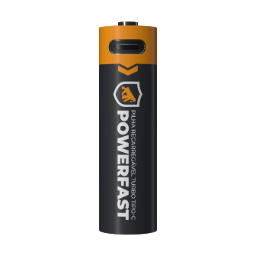
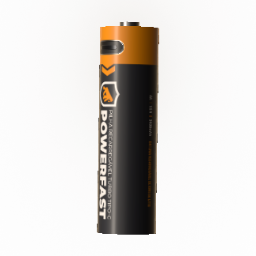
As miniaturas voltam a dizer o tamanho
O menu oferece tres opcoes e desenhava duas iguais. Medido nos PNGs antigos: mini-aa e mini-aaa ocupavam 83,6% da altura CADA, quando a palito e 12% mais curta e 28% mais fina de verdade. A unica propriedade que separa os dois produtos estava sendo apagada justamente no lugar onde a pessoa escolhe entre eles.

A causa era o recorte: recortar() calculava o lado do quadrado a partir da caixa de tinta DO PROPRIO ALVO, entao cada pilha era ajustada ao proprio quadrado e as duas saiam do mesmo tamanho. Agora os alvos declaram um grupo de escala e o lado sai do MAIOR do grupo, numa passada de medicao antes do recorte. O kit tem escala propria, por ser outra composicao.

Medido depois: mini-aa 64x214 (83,6% da altura), mini-aaa 44x186 (72,7%). Razao de altura 0,870 contra 0,881 reais, de largura 0,688 contra 0,724. A palito agora aparece menor, como ela e.

Dois consertos de tabela no mesmo arquivo. Os progressos estavam em 0,685 e 0,8125, de uma coreografia que mudou -- 0,685 hoje cai dentro do beat do chip; passaram para as ancoras reais, 0,712 e 0,888. E a leitura de pixel saiu do framebuffer padrao para um alvo de render: readPixels na tela so vale enquanto a aba compoe, e num painel embutido ela devolve o quadro anterior, o que ja tinha estragado uma rodada de captura.

Changed region(s): [[0.375, 0.0625, 0.625, 0.9375]]

diff --git a/producao/miniaturas/capturar.js b/producao/miniaturas/capturar.js
@@ -42,13 +42,33 @@
    * São os centros dos beats dos painéis, que é onde a pose é frontal e a
    * pilha está parada. Ver POSES em src/lib/scene-state.ts.
    */
+  /**
+   * `escala` AGRUPA quem tem de ser comparável.
+   *
+   * Todos os alvos de uma mesma escala são recortados com o MESMO lado de
+   * quadrado, calculado a partir do maior deles. Sem isso, cada pilha era
+   * ajustada à própria caixa de tinta e a AA e a palito saíam do mesmo
+   * tamanho na tela — medido nos PNGs antigos: as duas ocupavam 83,6% da
+   * altura, quando a palito é 12% mais curta e 28% mais fina de verdade.
+   *
+   * O menu existe para escolher ENTRE OS FORMATOS, e o enquadramento estava
+   * apagando a única propriedade que os separa. O kit é outra composição e
+   * tem escala própria.
+   *
+   * Os progressos são as ÂNCORAS de cada beat, e não os centros. Eles
+   * estavam em 0,685 e 0,8125, valores de uma coreografia que mudou: hoje
+   * 0,685 cai dentro do beat do chip, e as poses frontais dos painéis são
+   * 0,712 e 0,888 (ver `ancoraDoBeat` em src/lib/scene-state.ts). Capturar
+   * no lugar errado devolve a pilha girada, que foi um defeito já visto
+   * aqui.
+   */
   const ALVOS = [
-    { nome: 'mini-aa', progresso: 0.685, ilha: null },
-    { nome: 'mini-aaa', progresso: 0.8125, ilha: null },
+    { nome: 'mini-aa', progresso: 0.712, ilha: null, escala: 'formato' },
+    { nome: 'mini-aaa', progresso: 0.888, ilha: null, escala: 'formato' },
     /* No beat do kit há DUAS ilhas, uma de cada formato. A miniatura do
        kit leva a da esquerda, que é a de AA: o kit é quatro pilhas de UM
        formato, e mostrar as oito diria que ele traz os dois. */
-    { nome: 'mini-kit', progresso: 0.9375, ilha: 'esquerda' },
+    { nome: 'mini-kit', progresso: 0.95, ilha: 'esquerda', escala: 'kit' },
   ]
 
   /** Respiro em volta do recorte, em fração do lado maior */
@@ -56,18 +76,22 @@
   /** Lado do PNG final. 256 dá nitidez de sobra num alvo de 40 a 72 px */
   const LADO = 256
 
-  const esperar = (ms) => new Promise((r) => setTimeout(r, ms))
-
-  /** Lê o buffer do canvas, já com y na orientação da tela */
+  /**
+   * Lê o buffer, por um ALVO DE RENDER e não pelo canvas.
+   *
+   * `gl.render` seguido de `readPixels` no framebuffer padrão só devolve o
+   * que se acabou de desenhar enquanto a aba está compondo. Numa aba de
+   * fundo — ou num painel de navegador embutido, que é onde isto costuma
+   * rodar — o buffer de apresentação não é preservado entre tarefas e a
+   * leitura volta com o quadro anterior, ou metade dele. Foi assim que uma
+   * rodada inteira de captura saiu com a cena errada.
+   *
+   * `__cena.alvo()` desenha num alvo próprio e lê de lá, o que é válido
+   * sempre. A orientação continua de baixo para cima, como no readPixels.
+   */
   function lerPixels() {
-    const { gl, scene, camera } = window.__cena
-    gl.render(scene, camera)
-    const ctx = gl.getContext()
-    const L = ctx.drawingBufferWidth
-    const A = ctx.drawingBufferHeight
-    const px = new Uint8Array(L * A * 4)
-    ctx.readPixels(0, 0, L, A, ctx.RGBA, ctx.UNSIGNED_BYTE, px)
-    return { px, L, A }
+    const r = window.__cena.alvo()
+    return { px: r.px, L: r.w, A: r.h }
   }
 
   /** Alfa em (x, y), com y contado do topo */
@@ -132,12 +156,18 @@
     return { x0, x1, y0, y1 }
   }
 
-  /** Recorta a caixa num PNG quadrado, centrado, com margem */
-  function recortar(buf, cx) {
+  /**
+   * Recorta a caixa num PNG quadrado, centrado, com margem.
+   *
+   * `lado` vem DE FORA quando o alvo pertence a um grupo de escala: é o
+   * mesmo quadrado para a AA e para a palito, calculado a partir da maior
+   * das duas. É o que devolve a diferença de porte à imagem.
+   */
+  function recortar(buf, cx, ladoForcado) {
     const { px, L, A } = buf
     const larg = cx.x1 - cx.x0 + 1
     const alt = cx.y1 - cx.y0 + 1
-    const lado = Math.ceil(Math.max(larg, alt) * (1 + MARGEM * 2))
+    const lado = ladoForcado ?? Math.ceil(Math.max(larg, alt) * (1 + MARGEM * 2))
 
     const fonte = document.createElement('canvas')
     fonte.width = L
@@ -172,84 +202,83 @@
   }
 
   /**
-   * Espera a pose ASSENTAR, em tempo real, e não por contagem de quadros.
+   * Leva a cena a um progresso e ASSENTA a pose, sem depender de scroll.
    *
-   * A primeira versão escrevia o progresso na barra do painel de depuração
-   * e avançava 400 quadros à mão. Duas coisas davam errado ao mesmo tempo:
+   * A versão anterior rolava a página de verdade e esperava a rotação parar,
+   * e o comentário de `assentar` explica por que: escrever na barra do painel
+   * de depuração não bastava, porque o GSAP desfazia a escrita no primeiro
+   * tique dele.
    *
-   *   · o GSAP continua dirigindo `sceneState.progress` pelo scroll, então
-   *     ele desfazia a escrita da barra no primeiro tique dele
-   *   · `advance()` avança o laço do R3F, mas não o relógio do GSAP, então
-   *     o scrub nunca chegava ao valor pedido
+   * Só que rolar de verdade exige que a aba esteja COMPONDO — sem quadros, a
+   * pose nunca assenta e a captura sai no meio do giro. Num painel embutido
+   * isso é o caso normal, não a exceção.
    *
-   * O resultado saiu na imagem: a AA e a palito foram capturadas no meio do
-   * giro, mostrando a tarja de especificação em vez da marca. O kit escapou
-   * porque as oito pilhas dele têm rotação própria, independente da pose.
-   *
-   * Rolando de verdade e esperando a rotação parar, quem dirige é o mesmo
-   * mecanismo que dirige a página.
+   * Aqui a barra continua sendo a fonte do progresso, mas os quadros são
+   * forçados à mão com `__cena.passo()`. O GSAP não desfaz nada porque ele só
+   * escreve quando há evento de scroll, e não há: ninguém rola. É o mesmo
+   * mecanismo que o resto da depuração desta cena usa.
    */
-  async function assentar(g) {
-    let ant = null
-    for (let k = 0; k < 40; k++) {
-      await esperar(250)
-      const agora = { ry: g.rotation.y, z: g.position.z, s: g.scale.y }
-      if (
-        ant &&
-        Math.abs(agora.ry - ant.ry) < 0.004 &&
-        Math.abs(agora.z - ant.z) < 0.002 &&
-        Math.abs(agora.s - ant.s) < 0.002
-      ) {
-        return k
-      }
-      ant = agora
+  function pousar(progresso, quadros = 340) {
+    const barra = document.querySelector('input[type=range]')
+    if (!barra) throw new Error('painel de depuração não montou')
+    const escrever = Object.getOwnPropertyDescriptor(
+      HTMLInputElement.prototype,
+      'value',
+    ).set
+    escrever.call(barra, String(progresso))
+    barra.dispatchEvent(new Event('input', { bubbles: true }))
+
+    let t = performance.now() / 1000
+    for (let k = 0; k < quadros; k++) {
+      t += 1 / 60
+      window.__cena.passo(t)
     }
-    return 'estourou'
   }
 
   async function capturar() {
     if (!window.__cena) throw new Error('abra com ?debug=scene')
-    const espacador = document.querySelector('.pin-spacer')
-    if (!espacador) throw new Error('o ato pinado ainda não montou')
-    const curso = espacador.offsetHeight - window.innerHeight
-    const irPara = (p) => window.scrollTo(0, Math.round(p * curso))
+    if (!window.__cena.alvo) throw new Error('hook antigo: recarregue a página')
 
-    /* Acha a protagonista comparando duas posições de scroll distantes */
-    const grupos = []
-    window.__cena.scene.traverse((o) => {
-      if (o.isGroup && o.children.length) grupos.push(o)
-    })
-    irPara(0.06)
-    await esperar(2600)
-    const zHeroi = grupos.map((g) => g.position.z)
-    irPara(0.225)
-    await esperar(2600)
-    const i = grupos.findIndex((g, k) => Math.abs(g.position.z - zHeroi[k]) > 0.3)
-    if (i < 0) throw new Error('não achei o grupo da protagonista')
-    const protagonista = grupos[i]
-
+    /**
+     * DUAS PASSADAS, e a primeira existe só para medir.
+     *
+     * O lado do quadrado de cada grupo de escala tem de ser o do MAIOR
+     * integrante, e só dá para saber qual é depois de medir todos. Medir
+     * primeiro e recortar depois é o que garante que a palito seja desenhada
+     * menor que a AA em vez de preencher o próprio quadrado.
+     */
+    const medidos = []
     for (const alvo of ALVOS) {
-      irPara(alvo.progresso)
-      const voltas = await assentar(protagonista)
-      console.log(`${alvo.nome}: assentou em ${voltas}`, {
-        ry: +protagonista.rotation.y.toFixed(3),
-        z: +protagonista.position.z.toFixed(3),
-      })
-
+      pousar(alvo.progresso)
       const buf = lerPixels()
       const cx = caixa(buf, alvo.ilha)
       if (!cx) {
         console.warn(`${alvo.nome}: nada em cena`)
         continue
       }
-      const dados = recortar(buf, cx)
+      medidos.push({ alvo, buf, cx })
+      console.log(alvo.nome, 'caixa', {
+        larg: cx.x1 - cx.x0 + 1,
+        alt: cx.y1 - cx.y0 + 1,
+      })
+    }
 
+    const ladoPorEscala = {}
+    for (const { alvo, cx } of medidos) {
+      const bruto = Math.max(cx.x1 - cx.x0 + 1, cx.y1 - cx.y0 + 1)
+      const lado = Math.ceil(bruto * (1 + MARGEM * 2))
+      ladoPorEscala[alvo.escala] = Math.max(ladoPorEscala[alvo.escala] ?? 0, lado)
+    }
+    console.log('lado por escala', ladoPorEscala)
+
+    for (const { alvo, buf, cx } of medidos) {
+      const dados = recortar(buf, cx, ladoPorEscala[alvo.escala])
       const r = await fetch(`http://127.0.0.1:${PORTA}/`, {
         method: 'POST',
         headers: { 'content-type': 'application/json' },
         body: JSON.stringify({ nome: alvo.nome, dados }),
       })
-      console.log(alvo.nome, r.ok ? 'ok' : await r.text(), cx)
+      console.log(alvo.nome, r.ok ? 'ok' : await r.text())
     }
     console.log('pronto')
   }
